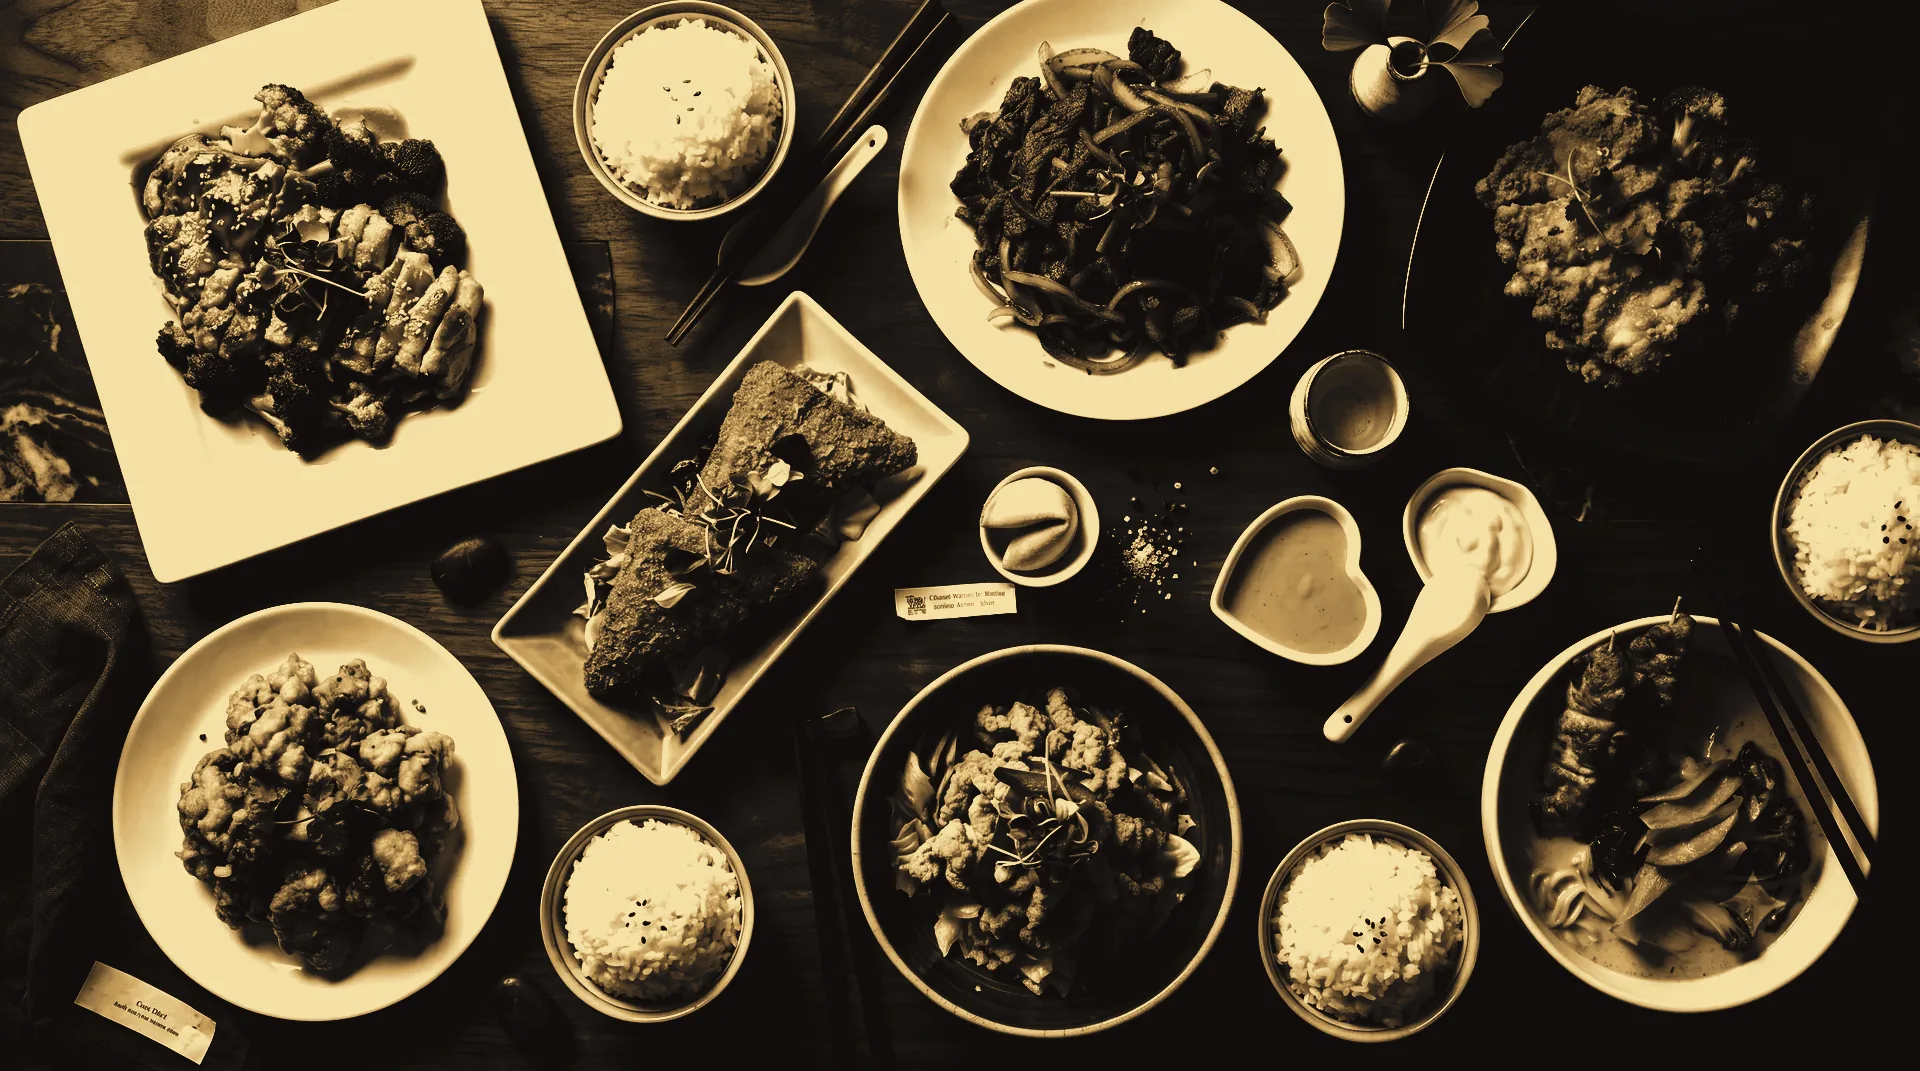
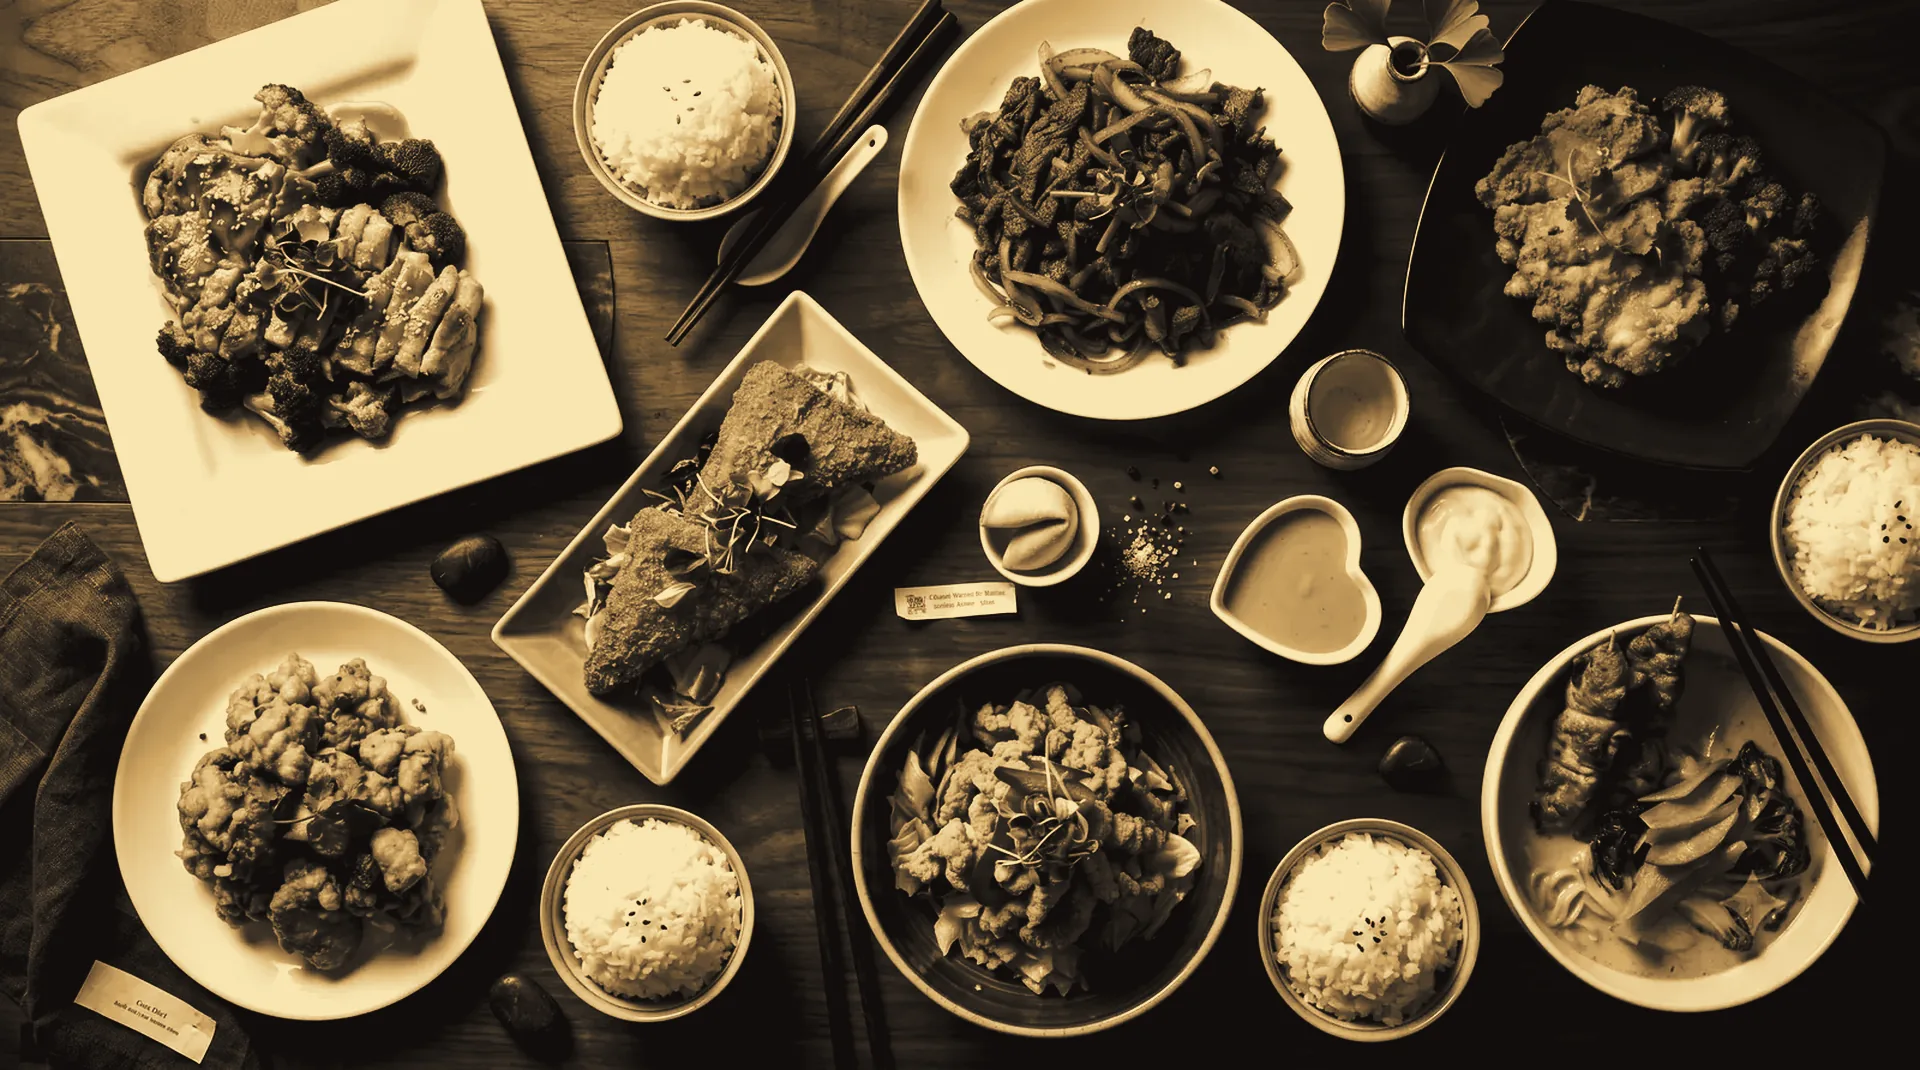
Add files via upload

diff --git a/css/styles.css b/css/styles.css
@@ -302,8 +302,21 @@ h1.font-display, h2.font-display { letter-spacing: -0.02em; }
 
 /* Hero headline / copy: revealed word-by-word as a scroll-driven wave.
    Text containers stay hidden until JS has split words & taken over. */
-.hero-text { opacity: 0; }
+.hero-text { opacity: 0; text-shadow: 0 1px 22px rgba(0, 0, 0, .45); }
 .hero-text.ready { opacity: 1; }
+
+/* Left-anchored scrim that protects the headline once the (lighter) image is
+   fully revealed. Strong on the left where the copy sits, fully clear on the
+   right so the food photography stays bright. */
+.hero-textscrim {
+  background: linear-gradient(
+    90deg,
+    rgba(20, 16, 14, .92) 0%,
+    rgba(20, 16, 14, .70) 30%,
+    rgba(20, 16, 14, .35) 48%,
+    transparent 64%
+  );
+}
 .hero-word {
   display: inline-block;
   opacity: 0;            /* JS ramps this per word from the reveal "head" */
@@ -311,6 +324,16 @@ h1.font-display, h2.font-display { letter-spacing: -0.02em; }
 }
 /* The decorative gold dash reveals with the first words. */
 .hero-dash { opacity: 0; }
+
+/* Duotone hero — gold wash: a static diagonal gold sweep + corner glow laid over the
+   charcoal/gold duotone image. Screen blend lifts the gold in shadow areas without a
+   video. No animation here; the hero's motion is the JS-driven scale + matte reveal. */
+.hero-goldwash {
+  background:
+    radial-gradient(115% 85% at 84% 14%, rgba(217,188,115,.20), transparent 55%),
+    linear-gradient(116deg, transparent 52%, rgba(200,162,75,.12) 78%, rgba(244,224,164,.05) 100%);
+  mix-blend-mode: screen;
+}
 
 /* ============================================================
    Bespoke micro-interactions
@@ -363,7 +386,10 @@ h1.font-display, h2.font-display { letter-spacing: -0.02em; }
   height: calc(100% - 12px);
   border-radius: 9999px;
   background: var(--lacquer);
-  transition: transform .5s var(--ease), width .5s var(--ease);
+  /* Positioned via `left` (layout) rather than `transform`. A transform-based pill can
+     stick on some renderers (the composited layer doesn't repaint from script-set
+     transforms); animating `left` is reliable for a click-triggered indicator. */
+  transition: left .45s var(--ease), width .45s var(--ease);
   z-index: 0;
   pointer-events: none;
 }

diff --git a/js/main.js b/js/main.js
@@ -86,7 +86,7 @@
 
   if (heroTrack && heroImg && matteT && matteB && matteL && matteR) {
     if (prefersReduced) {
-      // No choreography: full-bleed media, frame removed, track collapsed, video paused, text shown.
+      // No choreography: full-bleed image, frame removed, track collapsed, text shown.
       heroTrack.style.height = '100svh';
       heroImg.style.transform = 'none';
       if (typeof heroImg.pause === 'function') { heroImg.removeAttribute('autoplay'); heroImg.pause(); }
@@ -412,8 +412,12 @@
     tabsEl.appendChild(indicator);
     const moveIndicator = (tab) => {
       if (!tab) return;
+      // The indicator is absolutely positioned INSIDE the scrolling strip, so it scrolls
+      // with the tabs automatically — position it at the tab's offset only. Use `left`
+      // (not `transform`): a composited transform pill can stick on some renderers, and
+      // subtracting scrollLeft would double-count the scroll once the strip scrolls.
       indicator.style.width = tab.offsetWidth + 'px';
-      indicator.style.transform = `translateX(${tab.offsetLeft - tabsEl.scrollLeft}px)`;
+      indicator.style.left = tab.offsetLeft + 'px';
     };
     const activeTab = () => $('.menu-tab.active', tabsEl);
     const seat = () => moveIndicator(activeTab());
@@ -454,9 +458,13 @@
             });
           }
         }
-        // keep active tab in view on mobile, then re-seat the indicator
-        tab.scrollIntoView({ behavior: prefersReduced ? 'auto' : 'smooth', block: 'nearest', inline: 'center' });
-        setTimeout(() => moveIndicator(tab), prefersReduced ? 0 : 350);
+        // Centre the active tab within the horizontally-scrollable strip. Explicit
+        // scrollLeft is far more reliable than scrollIntoView for a nested horizontal
+        // scroller. The indicator is absolutely positioned inside the strip, so it
+        // rides along with the content as it scrolls — no re-seat needed.
+        const targetLeft = tab.offsetLeft - (tabsEl.clientWidth - tab.offsetWidth) / 2;
+        const maxLeft = tabsEl.scrollWidth - tabsEl.clientWidth;
+        tabsEl.scrollTo({ left: Math.max(0, Math.min(targetLeft, maxLeft)), behavior: prefersReduced ? 'auto' : 'smooth' });
       });
     });
   }

diff --git a/index.html b/index.html
@@ -32,7 +32,7 @@
   <link href="https://fonts.googleapis.com/css2?family=Fraunces:ital,opsz,wght@0,9..144,400;0,9..144,500;0,9..144,600;0,9..144,700;0,9..144,900;1,9..144,400;1,9..144,500;1,9..144,600;1,9..144,700&family=Hanken+Grotesk:wght@300;400;500;600;700&display=swap" rel="stylesheet" />
 
   <link rel="stylesheet" href="css/tailwind-compiled.css" />
-  <link rel="stylesheet" href="css/styles.css?v=11" />
+  <link rel="stylesheet" href="css/styles.css?v=13" />
   <link rel="stylesheet" href="https://unpkg.com/leaflet@1.9.4/dist/leaflet.css" />
 
   <!-- Structured data for local SEO -->
@@ -126,9 +126,11 @@
         <img id="heroImg" src="assets/others/hero-duotone.webp" alt="" aria-hidden="true"
              fetchpriority="high"
              class="absolute inset-0 h-full w-full object-cover"
-             style="object-position: center 58%; transform: scale(1.7);" />
+             style="object-position: 28% 42%; transform: scale(1.7);" />
         <div class="absolute inset-0 bg-gradient-to-b from-charcoal/65 via-charcoal/45 to-charcoal/90"></div>
         <div class="absolute inset-0 bg-gradient-to-r from-charcoal/90 via-charcoal/40 to-charcoal/10"></div>
+        <!-- text scrim: localized darken behind the headline so copy stays legible over the lighter image -->
+        <div class="hero-textscrim pointer-events-none absolute inset-0 z-[5]" aria-hidden="true"></div>
         <!-- gold wash: warms the highlights and lays a diagonal gold sweep over the duotone -->
         <div class="hero-goldwash pointer-events-none absolute inset-0" aria-hidden="true"></div>
         <div class="pointer-events-none absolute inset-0 scale-pattern opacity-[0.06]"></div>
@@ -508,6 +510,6 @@
 
   <script src="https://unpkg.com/leaflet@1.9.4/dist/leaflet.js"></script>
   <script src="js/menu-data.js?v=9"></script>
-  <script src="js/main.js?v=8"></script>
+  <script src="js/main.js?v=10"></script>
 </body>
 </html>

diff --git a/scripts/make-hero-duotone.py b/scripts/make-hero-duotone.py
@@ -1,0 +1,72 @@
+#!/usr/bin/env python3
+"""
+Generate the charcoal+gold duotone hero image.
+
+Maps a source photo's luminance through a charcoal -> bronze -> gold ramp so the
+shadows sit on the page background (#14100E) and the highlights glow gold. Use a
+high-contrast, well-lit source (the family-style food spread works well).
+
+Usage:
+    python scripts/make-hero-duotone.py "path/to/source.webp"
+    # writes assets/others/hero-duotone.webp  (~1920px wide)
+
+Requires: Pillow  (pip install pillow)
+"""
+import os
+import sys
+from PIL import Image, ImageOps, ImageEnhance
+
+DEFAULT_SRC = os.path.join("assets", "others", "table of food.webp")
+OUT = os.path.join("assets", "others", "hero-duotone.webp")
+TARGET_W = 1920
+
+# Charcoal (matches page bg) -> gold. Shadows stay neutral-charcoal so the image melts
+# into the page; gold is reserved for the upper-mids/highlights (so it reads premium,
+# not sepia). Tune these stops to re-grade.
+STOPS = [
+    (0.00, (16, 13, 11)),    # page charcoal (keep darkest edge so it melts into bg)
+    (0.26, (54, 46, 37)),    # lifted charcoal grey
+    (0.50, (138, 103, 60)),  # brighter transition, reached earlier
+    (0.74, (210, 168, 100)), # gold, reached earlier
+    (1.00, (248, 230, 178)), # gold highlight
+]
+
+
+def build_luts():
+    r, g, b = [], [], []
+    for v in range(256):
+        t = v / 255
+        for i in range(len(STOPS) - 1):
+            t0, c0 = STOPS[i]
+            t1, c1 = STOPS[i + 1]
+            if t0 <= t <= t1:
+                f = (t - t0) / (t1 - t0)
+                r.append(round(c0[0] + (c1[0] - c0[0]) * f))
+                g.append(round(c0[1] + (c1[1] - c0[1]) * f))
+                b.append(round(c0[2] + (c1[2] - c0[2]) * f))
+                break
+        else:
+            r.append(STOPS[-1][1][0])
+            g.append(STOPS[-1][1][1])
+            b.append(STOPS[-1][1][2])
+    return r, g, b
+
+
+def main():
+    src = sys.argv[1] if len(sys.argv) > 1 else DEFAULT_SRC
+    if not os.path.exists(src):
+        sys.exit("source image not found: %s" % src)
+    rLUT, gLUT, bLUT = build_luts()
+    img = Image.open(src).convert("RGB")
+    w, h = img.size
+    img = img.resize((TARGET_W, round(h * TARGET_W / w)), Image.LANCZOS)
+    L = ImageOps.autocontrast(img.convert("L"), cutoff=2)
+    L = ImageEnhance.Contrast(L).enhance(1.18)
+    duo = Image.merge("RGB", (L.point(rLUT), L.point(gLUT), L.point(bLUT)))
+    os.makedirs(os.path.dirname(OUT), exist_ok=True)
+    duo.save(OUT, "WEBP", quality=82, method=6)
+    print("wrote %s  %dx%d  %.1fKB" % (OUT, duo.size[0], duo.size[1], os.path.getsize(OUT) / 1024))
+
+
+if __name__ == "__main__":
+    main()

diff --git a/README.md b/README.md
@@ -26,7 +26,7 @@ canton-dragon/
 ├── js/
 │   ├── menu-data.js          # ALL menu + gallery + signature content (edit here)
 │   └── main.js               # Nav, reveals, hero/pin scroll, menu tabs, lightbox, map
-├── assets/                   # Real photography, logo, promos, hero video
+├── assets/                   # Real photography, logo, promos, duotone hero image
 ├── tailwind.config.js        # Theme tokens (colors, fonts) for recompiles
 └── README.md
 ```
@@ -56,14 +56,21 @@ python -m http.server 4321
 Food, interior, drink and promo images live in `assets/` (the restaurant's own
 photography, served locally as optimized WebP). To swap an image, drop the new file
 into the matching `assets/` subfolder and update its reference in `js/menu-data.js`
-(menu/gallery/signatures) or the `<img src>` tags in `index.html` (hero poster/video,
+(menu/gallery/signatures) or the `<img src>` tags in `index.html` (hero,
 About section, `og:image`/`twitter:image` meta, and JSON-LD `image`).
 
-> **Image weights:** all photos are optimized WebP (longest side ≤1600px, card-stack
-> imagery ≤1200px), well under 300 KB each — the full `assets/` folder is ~5 MB.
-> The one remaining heavy file is the hero video (`assets/video/`, ~2.9 MB); re-encode
-> it with ffmpeg (e.g. 720p H.264 CRF 26 + `-movflags +faststart`, or a WebM `<source>`)
-> before launch to fully clear the sub-2s bar on mobile.
+The **hero** is a charcoal+gold *duotone* still — `assets/others/hero-duotone.webp`
+(`#heroImg`), zoomed and revealed on scroll by `main.js`. There is no hero video.
+To regenerate it from a different source photo (charcoal shadows → gold highlights,
+~1920px wide):
+
+```bash
+python scripts/make-hero-duotone.py "assets/others/your-source.webp"
+```
+
+> **Image weights:** every asset is optimized WebP (longest side ≤1600px, card-stack
+> imagery ≤1200px), well under 300 KB each — the full `assets/` folder is ~2.7 MB,
+> comfortably inside the sub-2s budget on mobile.
 
 ## Rebuilding the stylesheet
 
